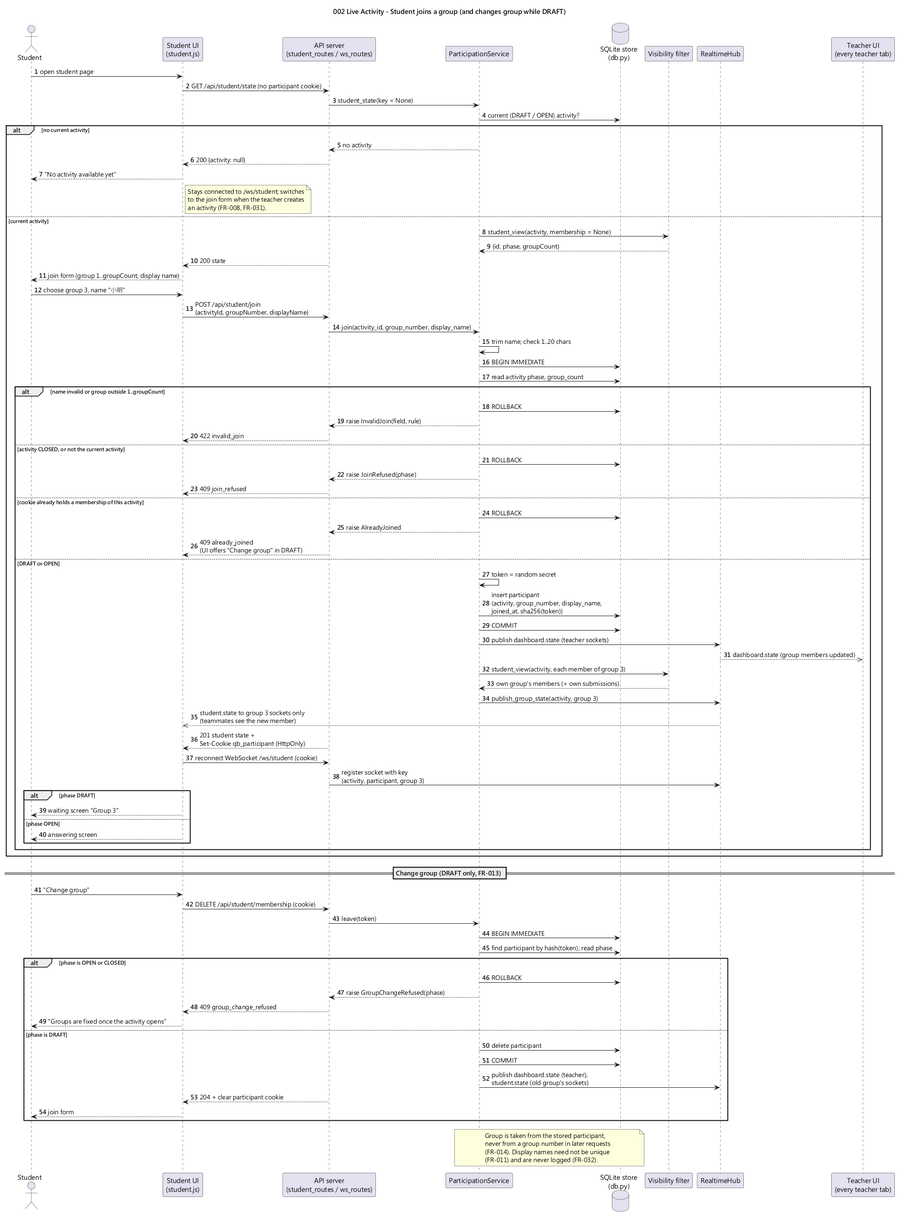
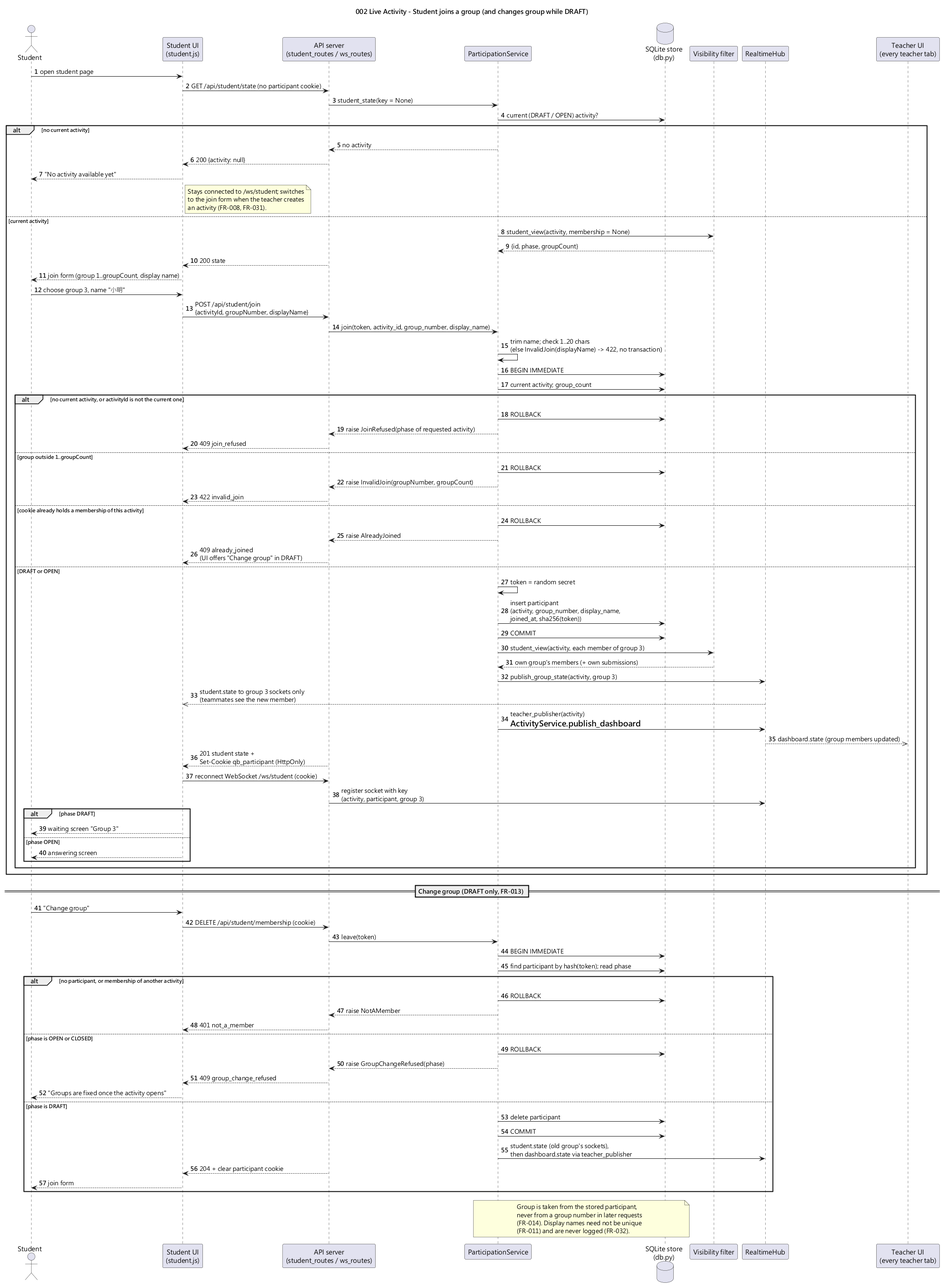
chore(002): Phase 8 polish - log hygiene, push latency, code-vs-diagram verification
- T050 tests/integration/test_logs_002.py: a full flow with sentinel passcode, names and
  answers leaves none of them (nor the session/participant tokens) in any log record.
- T051 tests/integration/test_push_latency.py: 60 student + 2 teacher sockets; OPEN reaches
  all in ~0.05 s, a submission reaches teachers + teammates in ~0.02 s (target < 1 s).
- T055 diagrams/VERIFICATION.md Feature 002: every diagram checked against the code;
  E1-E6 diagram corrections (visibility signature, dashboard via teacher_publisher,
  StudentKey, 409 texts, join/submit branch order and missing branches) - the code follows
  the spec in each case; data-model query list aligned (E7); all PNGs re-rendered (exit 0).
- T053/T056: run record (410 passed) and consistency pass.
- Not done: T052 README (skipped on instruction), T054 manual checks (human tester).

Full suite: 410 passed.

diff --git a/tests/integration/test_push_latency.py b/tests/integration/test_push_latency.py
@@ -1,0 +1,58 @@
+"""Push latency at classroom scale (002 SC-001, SC-002): 60 student sockets, 12 groups, 2 teachers.
+
+Pushes are delivered before the HTTP response that caused them returns, so the measured time
+covers the server's work plus delivery into every socket.
+"""
+
+from __future__ import annotations
+
+import contextlib
+import time
+
+from tests.live_helpers import add_member, cookie, create_activity, next_of_type, recv
+
+GROUPS = 12
+PER_GROUP = 5  # 60 student sockets
+
+
+def test_phase_change_and_submission_reach_everyone_within_one_second(app, client, student_client):
+    a = create_activity(client, group_count=GROUPS)
+    tokens = {}
+    for g in range(1, GROUPS + 1):
+        for i in range(PER_GROUP):
+            token = f"tok-{g}-{i}"
+            add_member(app, a["id"], g, f"s{g}-{i}", token)
+            tokens[(g, i)] = token
+    s = student_client()
+    with contextlib.ExitStack() as stack:
+        students = {key: stack.enter_context(s.websocket_connect("/ws/student", headers=cookie(t)))
+                    for key, t in tokens.items()}
+        teachers = [stack.enter_context(client.websocket_connect("/ws/teacher")) for _ in range(2)]
+        for ws in students.values():
+            recv(ws)
+        for ws in teachers:
+            next_of_type(ws, "dashboard.state")
+
+        started = time.monotonic()
+        assert client.post(f"/api/teacher/activities/{a['id']}/open").status_code == 200
+        for ws in students.values():
+            assert next_of_type(ws, "student.state")["state"]["activity"]["phase"] == "OPEN"
+        for ws in teachers:
+            next_of_type(ws, "dashboard.state")
+        open_seconds = time.monotonic() - started
+        print(f"OPEN reached 60 student + 2 teacher sockets in {open_seconds:.3f} s")
+        assert open_seconds < 1.0, f"OPEN reached all 62 sockets in {open_seconds:.3f} s"
+
+        submitter = student_client()
+        unit = next(u for u in a["units"] if len(u["slots"]) == 1)
+        started = time.monotonic()
+        r = submitter.post("/api/student/submissions", headers=cookie(tokens[(7, 0)]),
+                           json={"unitId": unit["id"], "answers": [{"subPart": 1, "text": "x"}]})
+        assert r.status_code == 201, r.text
+        for ws in teachers:
+            next_of_type(ws, "dashboard.state")
+        for i in range(PER_GROUP):
+            next_of_type(students[(7, i)], "student.state")
+        submit_seconds = time.monotonic() - started
+        print(f"submission reached 2 teacher + 5 group sockets in {submit_seconds:.3f} s")
+        assert submit_seconds < 1.0, f"submission reached teachers + group in {submit_seconds:.3f} s"

diff --git a/tests/integration/test_logs_002.py b/tests/integration/test_logs_002.py
@@ -1,0 +1,48 @@
+"""No passcode, tokens, display names or answer text in logs (002 FR-004, FR-032; Principle VI)."""
+
+from __future__ import annotations
+
+import logging
+
+from fastapi.testclient import TestClient
+
+from quizbuzzer.config import Settings
+from quizbuzzer.main import create_app
+from tests.live_helpers import create_activity, open_activity
+
+SENTINEL = "zq9SENTINELx7"
+
+
+def test_full_flow_logs_contain_no_student_data_or_secrets(fake_adapter, db_path, caplog):
+    passcode = f"pass-{SENTINEL}"
+    settings = Settings(credentials_path=None, db_path=db_path, host="127.0.0.1", port=8000,
+                        teacher_passcode=passcode)
+    app = create_app(adapter=fake_adapter, db_path=db_path, settings=settings)
+    caplog.set_level(logging.DEBUG)
+    secrets_seen = [passcode]
+    with TestClient(app) as teacher, TestClient(app) as student:
+        teacher.post("/api/teacher/session", json={"passcode": f"wrong-{SENTINEL}"})
+        r = teacher.post("/api/teacher/session", json={"passcode": passcode})
+        secrets_seen.append(r.cookies["qb_teacher"])
+        a = create_activity(teacher)
+        r = student.post("/api/student/join", json={
+            "activityId": a["id"], "groupNumber": 1, "displayName": f"名-{SENTINEL}"})
+        secrets_seen.append(r.cookies["qb_participant"])
+        student.post("/api/student/join", json={  # refused: already joined
+            "activityId": a["id"], "groupNumber": 2, "displayName": f"名2-{SENTINEL}"})
+        open_activity(teacher, a)
+        unit = next(u for u in a["units"] if len(u["slots"]) == 1)
+        body = {"unitId": unit["id"], "answers": [{"subPart": 1, "text": f"ans-{SENTINEL}"}]}
+        assert student.post("/api/student/submissions", json=body).status_code == 201
+        student.post("/api/student/submissions", json=body)  # refused: already submitted
+        student.post("/api/student/submissions", json={  # refused: too long
+            "unitId": unit["id"], "answers": [{"subPart": 1, "text": SENTINEL * 30}]})
+        teacher.post(f"/api/teacher/activities/{a['id']}/end")
+        student.get("/api/student/state")
+
+    assert caplog.records, "expected some log records to inspect"
+    for record in caplog.records:
+        text = record.getMessage()
+        assert SENTINEL not in text, (record.name, text)
+        for secret in secrets_seen:
+            assert secret not in text, record.name

diff --git a/diagrams/VERIFICATION.md b/diagrams/VERIFICATION.md
@@ -96,3 +96,127 @@ two most-changed ones (`domain-class`, `system-component`) were inspected visual
 Not discrepancies: the `/ws/teacher` on-connect state and `GET /activities/current` / `/{id}` have
 no sequence diagram; they are fully specified in `contracts/websocket.md` and
 `contracts/rest-api.md`.
+
+
+---
+
+# Code-vs-Diagram Verification — Feature 002 (Principle VIII)
+
+**Date**: 2026-11-27 · **Scope**: `src/quizbuzzer/` after `/speckit-implement` for 002 (T001–T051;
+README T052 and the manual checks T054 left to a human) · **Diagrams**: `system-component`,
+`domain-class`, `002-seq-teacher-unlock`, `002-seq-open-activity`, `002-seq-join`, `002-seq-submit`,
+`002-seq-end-activity`, `002-seq-cancel-activity`, `002-seq-reconnect` · **Method**: every element,
+name, call, route, status code and message type below was checked by reading the code against the
+`.puml` source.
+
+**Result**: consistent after 7 diagram corrections (E1–E7) and the earlier implementation-time
+change E0. In every case the code follows the spec and contracts, so the diagrams were updated.
+Re-rendered with `java -jar tools/plantuml.jar "./diagrams/*.puml"` (exit 0, 12/12 PNGs fresh);
+`system-component` and `002-seq-submit` were inspected visually.
+
+## system-component.puml
+
+| Diagram element | Code | Status |
+|---|---|---|
+| Teacher UI `static/teacher.html + teacher.js` (passcode unlock, import, open / end / cancel, live dashboard) | lock form, Open / End / Cancel with `confirm()`, `renderDashboard`, closed view | ✅ |
+| Student UI `static/student.html + student.js` (join, wait, answer, own-group view, closed) | five screens rendered from `student.state`; reconnect 0.5 s → 5 s | ✅ |
+| `api/auth_routes.py POST /api/teacher/session` | `create_session` | ✅ |
+| `api/teacher_routes.py /api/teacher/*` | 001 routes + `open_activity`, `end_activity`, `cancel_activity`, `get_dashboard` | ✅ |
+| `api/student_routes.py /api/student/*` | `get_state`, `join`, `leave`, `submit` | ✅ |
+| `api/ws_routes.py /ws/teacher, /ws/student` | `teacher_socket`, `student_socket` | ✅ |
+| Teacher guard `api/auth.py: require_teacher (TeacherSessions)`; TR → AUTH "every route, before routing (TeacherGuardMiddleware)" | `TeacherGuardMiddleware` added in `create_app`; `require_teacher` also called by `/ws/teacher` | ✅ (E0) |
+| Real-time channel: teacher sockets; student sockets keyed by StudentKey or None | `RealtimeHub.teachers`, `.students: dict[WebSocket, StudentKey \| None]`, `student_sockets(activity_id, group_number)` | ✅ |
+| Activity service (import, open, end, cancel DRAFT, dashboard) | `open_activity`, `end_activity`, `cancel_activity`, `get_dashboard`, `get_displayed_activity`, `publish_teacher_state`, `publish_dashboard` | ✅ |
+| Participation service (join, leave, submit, group state) | `join`, `leave`, `submit`, `resolve_key`, `student_state`, `publish_student_states`, `publish_group_state` | ✅ |
+| Visibility filter `student_view(...)` | `student_view(activity, participant, members, own_submissions)` | ⚠ → diagram updated (E1) |
+| ACT → PART `publish_student_states()` after create / re-import / open / end / cancel | `ActivityService._publish_students` → `student_publisher` | ✅ |
+| PART → RT "dashboard.state after join / leave / submit" | dashboard goes PART → `teacher_publisher` = `ActivityService.publish_dashboard` → hub | ⚠ → diagram updated (E2) |
+| PART → VIS "every student-bound response and push"; ACT never calls VIS | only `participation_service.py` imports `student_view` | ✅ |
+| ACT / PART → DB atomic transactions | `db.transaction` (BEGIN IMMEDIATE) in every write | ✅ |
+| Notes: passcode required at startup, HttpOnly session cookie, in memory until restart; PART is the sole rank authority; group only from the cookie | `config.load_settings` / `create_app` refuse blank passcode; `TeacherSessions`; `ParticipationService.submit`; `_member_in_tx` | ✅ |
+
+## domain-class.puml
+
+| Diagram element | Code (`models.py`, `db.py`) | Status |
+|---|---|---|
+| `Group <<value>> {number}`; no table | no `groups` table; `participants.group_number`, `submissions.group_number` | ✅ |
+| `Participant {id, displayName, joinedAt, tokenHash}` | `participants` table has all four; the `Participant` dataclass omits `token_hash` on purpose (only db.py and the service see it) and adds `activity_id`, `group_number` (the relationships) | ✅ |
+| `Submission {id, rank, receivedAt, isWinner()}` | table + dataclass (`is_winner` property); the dataclass also carries read-only `unit_number`, `submitted_by` from joins | ✅ |
+| `SubmissionAnswer {text}`; `for slot` → AnswerSlot | `submission_answers (submission_id, slot_id, text)`; dataclass adds `sub_part` from the join | ✅ |
+| Constraints note: `UNIQUE(unit_id, group_number)`, `UNIQUE(unit_id, rank)`, BEGIN IMMEDIATE | `db.SCHEMA` | ✅ |
+| Activity note: cancel deletes units, slots, participants | `ON DELETE CASCADE` on `question_units`, `participants`; `test_deleting_an_activity_cascades_to_all_002_rows` | ✅ |
+| In memory: `TeacherSessions {tokens, create, is_valid}` | `api/auth.py: TeacherSessions` | ✅ |
+| `StudentKey` (in `models.py`, used by the hub) | `models.StudentKey` NamedTuple — not drawn | ⚠ → diagram updated (E3) |
+
+## 002-seq-teacher-unlock.puml
+
+| Step | Code | Status |
+|---|---|---|
+| GET `/activities/current` without cookie → `require_teacher` → `TeacherRequired` → 401 `teacher_required` | `TeacherGuardMiddleware` (before routing) | ✅ |
+| POST `/api/teacher/session` → `create(passcode)` constant-time → `WrongPasscode` 401 / 204 + `Set-Cookie qb_teacher` HttpOnly, SameSite=Strict | `auth_routes.create_session`, `TeacherSessions.create` (`hmac.compare_digest`) | ✅ |
+| then GET current → `get_displayed_activity()`; `/ws/teacher` → `require_teacher` → accept; `activity.state` + dashboard | `teacher_routes.current_activity`, `ws_routes.teacher_socket` | ✅ |
+| Student calls any teacher route → 401, no data; `/ws/teacher` without cookie → close 4401 | `test_teacher_guard.py` (walks every route) | ✅ |
+
+## 002-seq-open-activity.puml / 002-seq-end-activity.puml
+
+| Step | Code | Status |
+|---|---|---|
+| POST `…/open` / `…/end` → guard → `open_activity` / `end_activity` | `ActivityService._transition` | ✅ |
+| BEGIN IMMEDIATE; read phase; missing → 404; wrong phase → `PhaseConflict` 409 + `details.phase`; else `UPDATE phase`; COMMIT | `_transition` | ✅ |
+| 409 message text | per phase: "The activity is already OPEN.", "…CLOSED; a closed activity cannot be opened again.", DRAFT end → "…Use Cancel activity instead." | ⚠ → open diagram label updated (E4) |
+| After commit: `activity.state` + `dashboard.state` to teachers, then `publish_student_states()` loop through `student_view` | `publish_teacher_state`, `_publish_students` | ✅ |
+| End: a racing submit either commits first (ranked) or sees CLOSED → `activity_ended` | `test_submit_racing_end_is_all_or_nothing` (50 rounds) | ✅ |
+
+## 002-seq-join.puml
+
+| Step | Code | Status |
+|---|---|---|
+| GET `/api/student/state` → `student_state(key=None)`; no activity → `{activity: null}` | `state_for_token` → `resolve_key` → `student_state` | ✅ |
+| Join: name checked before the transaction; inside: no current / other activity → `join_refused`; group outside range → `invalid_join`; `already_joined`; insert with `sha256(token)` | `ParticipationService.join` | ⚠ → branch order and the pre-transaction name check redrawn (E5) |
+| After commit: `publish_group_state` (group 3 sockets only), then `dashboard.state` via `teacher_publisher` | `_after_group_change` | ⚠ → order and route via `teacher_publisher` redrawn (E5) |
+| 201 + `Set-Cookie qb_participant`; client reconnects `/ws/student`; socket keyed `(activity, participant, group)` | `student_routes.join`; `student.js reconnectNow`; `ws_routes.student_socket` | ✅ |
+| Change group: DELETE `/membership` → `leave`; OPEN / CLOSED → 409 `group_change_refused`; DRAFT → delete; 204 + cookie cleared | `ParticipationService.leave`, `student_routes.leave` | ✅ |
+| Change group without a valid membership → 401 `not_a_member` | implemented, not drawn | ⚠ → branch added (E5) |
+
+## 002-seq-submit.puml
+
+| Step | Code | Status |
+|---|---|---|
+| Before the transaction: trim, non-empty, ≤ 200, no duplicate sub-part → 422 | `validate_answers` | ⚠ → label corrected; "every slot present" moved inside (E6) |
+| BEGIN IMMEDIATE; participant → 401 `not_a_member`; phase DRAFT → `not_open`; CLOSED → `activity_ended` | `submit`, `_member_in_tx` | ✅ |
+| Unit not in the student's activity → 404 `unit_not_found`; sub-part set ≠ slots → 422 | `get_unit_for_activity`; in-transaction set check | ⚠ → branches added (E6) |
+| Duplicate → `already_submitted` with the group's own submission (no rank) | `get_group_submission`, `submission_out` | ✅ |
+| `rank = 1 + COUNT`, insert submission + answers, COMMIT; `IntegrityError` backstop | `count_unit_submissions`, `insert_submission` | ✅ |
+| After commit: group push, then `dashboard.state` via `teacher_publisher`; 201 without rank | `_after_submission`, `student_routes.submit` | ⚠ → order and route redrawn (E6) |
+
+## 002-seq-cancel-activity.puml
+
+| Step | Code | Status |
+|---|---|---|
+| DELETE `/activities/{id}` → guard → `cancel_activity`; BEGIN IMMEDIATE; missing → 404; OPEN / CLOSED → `CancelRefused` 409 (messages as drawn); DRAFT → `DELETE` (cascade); COMMIT | `ActivityService.cancel_activity`, `db.delete_activity` | ✅ |
+| After commit: `activity.state` (displayed: latest CLOSED or null), no dashboard; `publish_student_states()` → `{activity: null}`; 204 | `cancel_activity`; `test_cancel_publishes_the_displayed_activity_after_commit` | ✅ |
+| Open vs cancel: exactly one wins; join vs cancel leaves no participant | `test_phase_concurrency.py` | ✅ |
+
+## 002-seq-reconnect.puml
+
+| Step | Code | Status |
+|---|---|---|
+| `/ws/student`: `resolve_key(token)` → register with key → `student_state(key)` → four alt branches (member of current; member of latest CLOSED with no current; no membership + current; neither) | `student_socket`, `ParticipationService._student_state` | ✅ |
+| `/ws/teacher`: guard (4401 after restart) → register → `get_displayed_activity()` + `get_dashboard(id)` → `activity.state` + `dashboard.state` | `teacher_socket` (also tolerates a cancel between the two reads) | ✅ |
+| Recovery within 3 s, same state over HTTP | `test_student_recovers_state_after_refresh_and_missed_phase_changes`, `test_teacher_recovers_the_live_state_on_reconnect` | ✅ |
+
+## Discrepancies and resolutions (002)
+
+| # | Diagram | Discrepancy | Resolution |
+|---|---|---|---|
+| E0 | system-component | (found during Phase 2) the guard was planned as a router dependency, which FastAPI runs after parsing a malformed JSON body (422 instead of the contract's 401) | Implemented as `TeacherGuardMiddleware`; research R1, plan, contracts, tasks and the diagram updated in commit `f76e580` |
+| E1 | system-component | `student_view(phase, group, ...)` | Label now shows `student_view(activity, participant, members, own_submissions)` |
+| E2 | system-component | dashboard pushes drawn as PART → RT directly | New PART → ACT edge "teacher_publisher = publish_dashboard (after join / leave / submit)"; PART → RT now "student.state snapshots" |
+| E3 | domain-class | `StudentKey` (models.py) not drawn | Added to the in-memory package with a note |
+| E4 | 002-seq-open-activity | 409 text drawn as "activity is already <phase>" for all phases | Label lists the exact messages |
+| E5 | 002-seq-join | name check drawn inside the transaction; `invalid_join` drawn before `join_refused`; group push and dashboard order; no `not_a_member` branch on change group | Redrawn to match `join` / `leave` (the contract's codes were unchanged) |
+| E6 | 002-seq-submit | "every slot present" drawn before the transaction; no `unit_not_found` or in-transaction set branch; dashboard drawn before the group push | Redrawn to match research R3's order, which the code follows |
+| E7 | data-model.md (not a diagram) | query list named `get_phase_for_update` and `group_has_submitted`, which were not needed | List updated to the implemented names |
+
+Not discrepancies: `/student` and the `/` redirect have no sequence diagram (research R8); the
+teacher and student pages are covered by the component diagram and the manual checks M11–M25.

diff --git a/specs/002-live-buzz-activity/tasks.md b/specs/002-live-buzz-activity/tasks.md
@@ -435,17 +435,17 @@ activity gives 409.
 
 ## Phase 8: Polish & Cross-Cutting Concerns
 
-- [ ] T050 [P] Extend the log-hygiene test in `tests/integration/test_import_api.py`, or add `tests/integration/test_logs_002.py`. Run a full flow with sentinel display names, answers and passcode, and assert that none appears in captured logs at any level (FR-004, FR-032). Fix any log call that fails it.
-- [ ] T051 [P] Write `tests/integration/test_push_latency.py` (SC-001, SC-002). Connect 60 student sockets across 12 groups and 2 teacher sockets. Assert that every socket receives the OPEN snapshot within 1 s of `POST …/open` returning, and that the teacher sockets and the submitting group's sockets receive the post-submit snapshots within 1 s.
-- [ ] T052 [P] Rewrite `README.md`:
+- [X] T050 [P] Extend the log-hygiene test in `tests/integration/test_import_api.py`, or add `tests/integration/test_logs_002.py`. Run a full flow with sentinel display names, answers and passcode, and assert that none appears in captured logs at any level (FR-004, FR-032). Fix any log call that fails it.
+- [X] T051 [P] Write `tests/integration/test_push_latency.py` (SC-001, SC-002). Connect 60 student sockets across 12 groups and 2 teacher sockets. Assert that every socket receives the OPEN snapshot within 1 s of `POST …/open` returning, and that the teacher sockets and the submitting group's sockets receive the post-submit snapshots within 1 s.
+- [ ] T052 [P] **(Not done: skipped on instruction, 2026-11-27.)** Rewrite `README.md`:
   - project summary;
   - run instructions: `uv sync`, `.env` with `TEACHER_PASSCODE`, `QUIZBUZZER_HOST=0.0.0.0`, the `/teacher` and `/student` URLs, and the firewall note from `quickstart.md`;
   - test and diagram commands;
   - the dependency/licence table from 001 `research.md › R10` (unchanged list, plus the pointer to `uv.lock`), as required by Principle VII and noted in research R10.
-- [ ] T053 Run `uv run pytest` and record the result (count, duration, commit) in `docs/verification.md` › 002 › Automated test runs. Confirm every test-first row has its red entry and its green commit.
-- [ ] T054 Manual verification (human tester): run `quickstart.md` §5 M11–M25 with real devices on the classroom LAN, and record the date, tester, commit, results and evidence (no secrets, no student data) in `docs/verification.md` › 002 (Principle V). The AI does not mark this task done.
-- [ ] T055 Code-vs-diagram verification (Principle VIII). Compare `src/quizbuzzer/` with `diagrams/system-component.puml`, `domain-class.puml` and every `002-seq-*.puml` (names, calls, routes, status codes, message types), using the plan's Diagram Blueprint. Record a "Feature 002" section in `diagrams/VERIFICATION.md`, in the same table format as 001. Fix the diagrams (or the code, when the code breaks the spec), re-render with `java -jar tools/plantuml.jar "./diagrams/*.puml"` (exit 0, a PNG next to every `.puml`), and update `plan.md` › Diagram changes if anything changed.
-- [ ] T056 Final consistency pass (Principle VII). Check that `spec.md`, `plan.md`, `contracts/`, `data-model.md` and `quickstart.md` match the shipped behaviour, including 001's `contracts/rest-api.md` and `websocket.md` notes on the displayed activity. Mark `T001`–`T055` done in this file.
+- [X] T053 Run `uv run pytest` and record the result (count, duration, commit) in `docs/verification.md` › 002 › Automated test runs. Confirm every test-first row has its red entry and its green commit.
+- [ ] T054 **(Open: needs a human tester.)** Manual verification (human tester): run `quickstart.md` §5 M11–M25 with real devices on the classroom LAN, and record the date, tester, commit, results and evidence (no secrets, no student data) in `docs/verification.md` › 002 (Principle V). The AI does not mark this task done.
+- [X] T055 Code-vs-diagram verification (Principle VIII). Compare `src/quizbuzzer/` with `diagrams/system-component.puml`, `domain-class.puml` and every `002-seq-*.puml` (names, calls, routes, status codes, message types), using the plan's Diagram Blueprint. Record a "Feature 002" section in `diagrams/VERIFICATION.md`, in the same table format as 001. Fix the diagrams (or the code, when the code breaks the spec), re-render with `java -jar tools/plantuml.jar "./diagrams/*.puml"` (exit 0, a PNG next to every `.puml`), and update `plan.md` › Diagram changes if anything changed.
+- [X] T056 Final consistency pass (Principle VII). Check that `spec.md`, `plan.md`, `contracts/`, `data-model.md` and `quickstart.md` match the shipped behaviour, including 001's `contracts/rest-api.md` and `websocket.md` notes on the displayed activity. Mark `T001`–`T055` done in this file. (Done 2026-11-27 for every task except T052 (README, skipped on instruction) and T054 (manual checks, for a human).)
 
 ---
 

diff --git a/docs/verification.md b/docs/verification.md
@@ -117,7 +117,8 @@ Each core-rule test was written first, run, and **observed failing** before its 
 | 4 · US2 join, change group, submit + ranking | `unit/test_participation_service.py`, `unit/test_ranking.py`, `integration/test_submit_concurrency.py` (100 rounds × 12 groups; same-group race ×50), `integration/test_student_api.py` | 17 failed, 3 collection errors (service exceptions missing) | 365 passed (full suite) | `83ecf66` |
 | 5 · US3 dashboard + end + displayed activity | `unit/test_activity_phases.py` (end, zero submissions, displayed activity, import after end), `integration/test_submit_concurrency.py` (submit vs end, 50 rounds), `integration/test_dashboard_api.py`, `integration/test_ws_teacher.py` (002 part) | 16 failed (first attempt hung on a blocking WebSocket receive; added a timed `recv` helper, then re-ran red) | 383 passed (full suite) | `7736c66` |
 | 7 · US5 cancel a DRAFT activity (run before US4, as instructed) | `unit/test_activity_phases.py` (cancel), `integration/test_phase_concurrency.py` (open vs cancel, join vs cancel), `integration/test_live_flow_api.py` (cancel) | 4 failed, 1 collection error (`CancelRefused` missing) | 396 passed (full suite) | `4ef7dc4` |
-| 6 · US4 teammates' live view + leak test | `unit/test_group_push.py`, `integration/test_visibility_leak.py` (SC-005), `integration/test_ws_student.py` (US4 part) | 7 failed; **3 reconnect-recovery tests passed on first run** (snapshot-on-connect from Phase 2 already covers FR-030), recorded as not red | 408 passed (full suite) | US4 commit |
+| 6 · US4 teammates' live view + leak test | `unit/test_group_push.py`, `integration/test_visibility_leak.py` (SC-005), `integration/test_ws_student.py` (US4 part) | 7 failed; **3 reconnect-recovery tests passed on first run** (snapshot-on-connect from Phase 2 already covers FR-030), recorded as not red | 408 passed (full suite) | `26daae0` |
+| 8 · Polish: log hygiene, push latency | `integration/test_logs_002.py`, `integration/test_push_latency.py` | **not red**: both passed on their first run (they verify existing behaviour; not Principle V core rules) | 410 passed | Polish commit |
 
 ## Manual verification (M11–M25)
 
@@ -149,3 +150,4 @@ secrets, no student data, Principle VI).
 
 | Date | Commit | Result | Notes |
 |---|---|---|---|
+| 2026-11-27 | `26daae0` + Polish | **410 passed**, 0 skipped, ~63 s | Includes SC-003 (100 rounds × 12 groups), submit vs end (50 rounds), the SC-005 leak test. Push latency at 60 student + 2 teacher sockets: OPEN 0.046–0.063 s, submission 0.015–0.031 s (3 runs; SC-001 / SC-002 target < 1 s) |

diff --git a/specs/002-live-buzz-activity/data-model.md b/specs/002-live-buzz-activity/data-model.md
@@ -109,9 +109,12 @@ CLOSED activities and their submissions are never modified or deleted.
 
 ## Queries added to `db.py`
 
-`find_latest_activity` (R7), `get_phase_for_update` (reuses `get_activity_phase` inside the
-transaction), `delete_activity`, `set_phase`, `insert_participant`, `find_participant_by_token_hash`,
-`delete_participant`, `list_group_members`, `list_members_by_group`, `count_unit_submissions`,
-`group_has_submitted`, `insert_submission` (+ answers), `list_group_submissions`,
-`list_dashboard_submissions` (all units, rank order). Each one takes the caller's connection, so
-that it runs inside the caller's transaction.
+`find_latest_activity` (R7), `set_phase`, `delete_activity`, `get_group_count`,
+`insert_participant`, `find_participant_by_token_hash`, `get_participant`, `delete_participant`,
+`list_group_members`, `list_members_by_group`, `get_unit_for_activity`, `count_unit_submissions`,
+`get_group_submission` (the duplicate check; it also returns the group's own submission for
+`already_submitted`), `insert_submission` (+ answers), `list_group_submissions`,
+`list_dashboard_submissions` (all units, rank order). The phase is read inside transactions with
+001's `get_activity_phase`. Each function takes the caller's connection, so it runs inside the
+caller's transaction. (List updated to the implemented names on 2026-11-27: the planned
+`get_phase_for_update` and `group_has_submitted` were not needed as separate functions.)

diff --git a/specs/002-live-buzz-activity/plan.md b/specs/002-live-buzz-activity/plan.md
@@ -63,6 +63,17 @@ The diagrams are the primary blueprint, and module and class names match them ex
 - `002-seq-reconnect`, `-teacher-unlock`: `resolve_key` then register then `student_state`, and
   the teacher side gets `get_displayed_activity()` (current, else latest CLOSED).
 
+**Diagram changes made during implementation** (re-rendered 2026-11-27, exit 0; details in
+`diagrams/VERIFICATION.md` › Feature 002):
+- E0: `system-component`: the teacher guard is `TeacherGuardMiddleware`, not a router
+  dependency (research R1).
+- E1, E2: `system-component`: `student_view` signature; dashboard pushes after join / leave /
+  submit go through `teacher_publisher` = `ActivityService.publish_dashboard`.
+- E3: `domain-class`: `StudentKey` added to the in-memory package.
+- E4–E6: `002-seq-open-activity`, `-join`, `-submit`: exact 409 messages; join check order and the
+  change-group `not_a_member` branch; submit's in-transaction `unit_not_found` and sub-part-set
+  branches; group push before the teacher dashboard.
+
 ## Technical Context
 
 **Language/Version**: Python 3.11 (uv-managed project `.venv`, as in 001 research R1).
